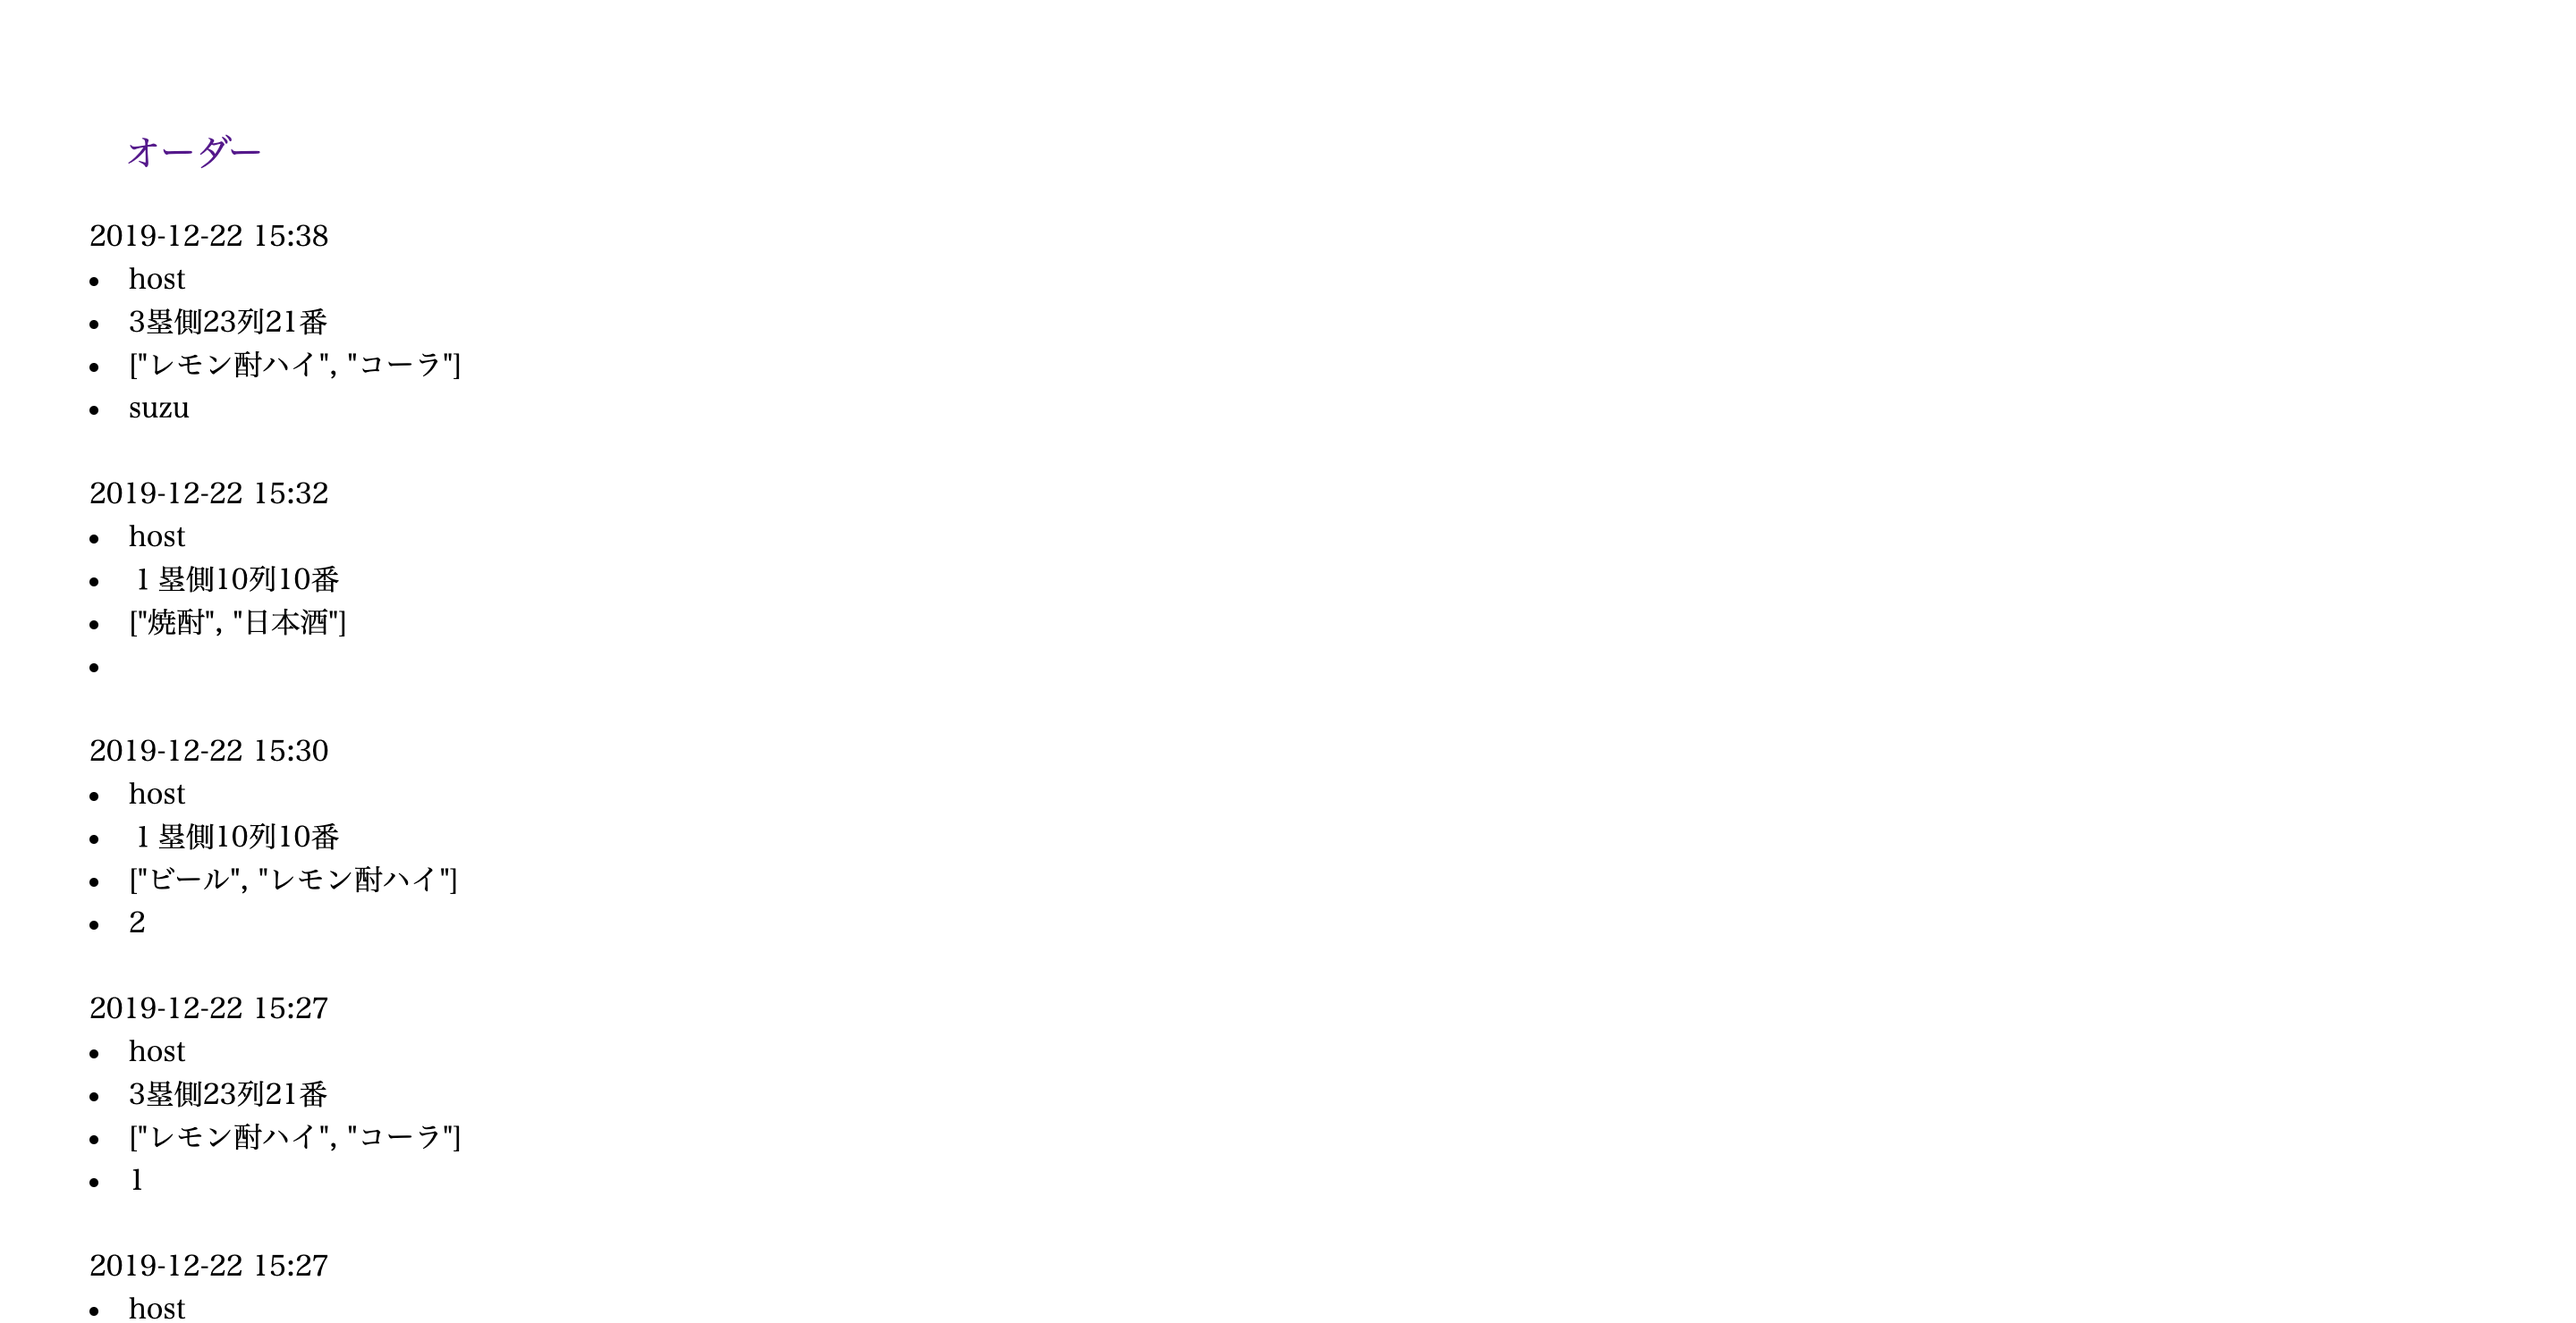
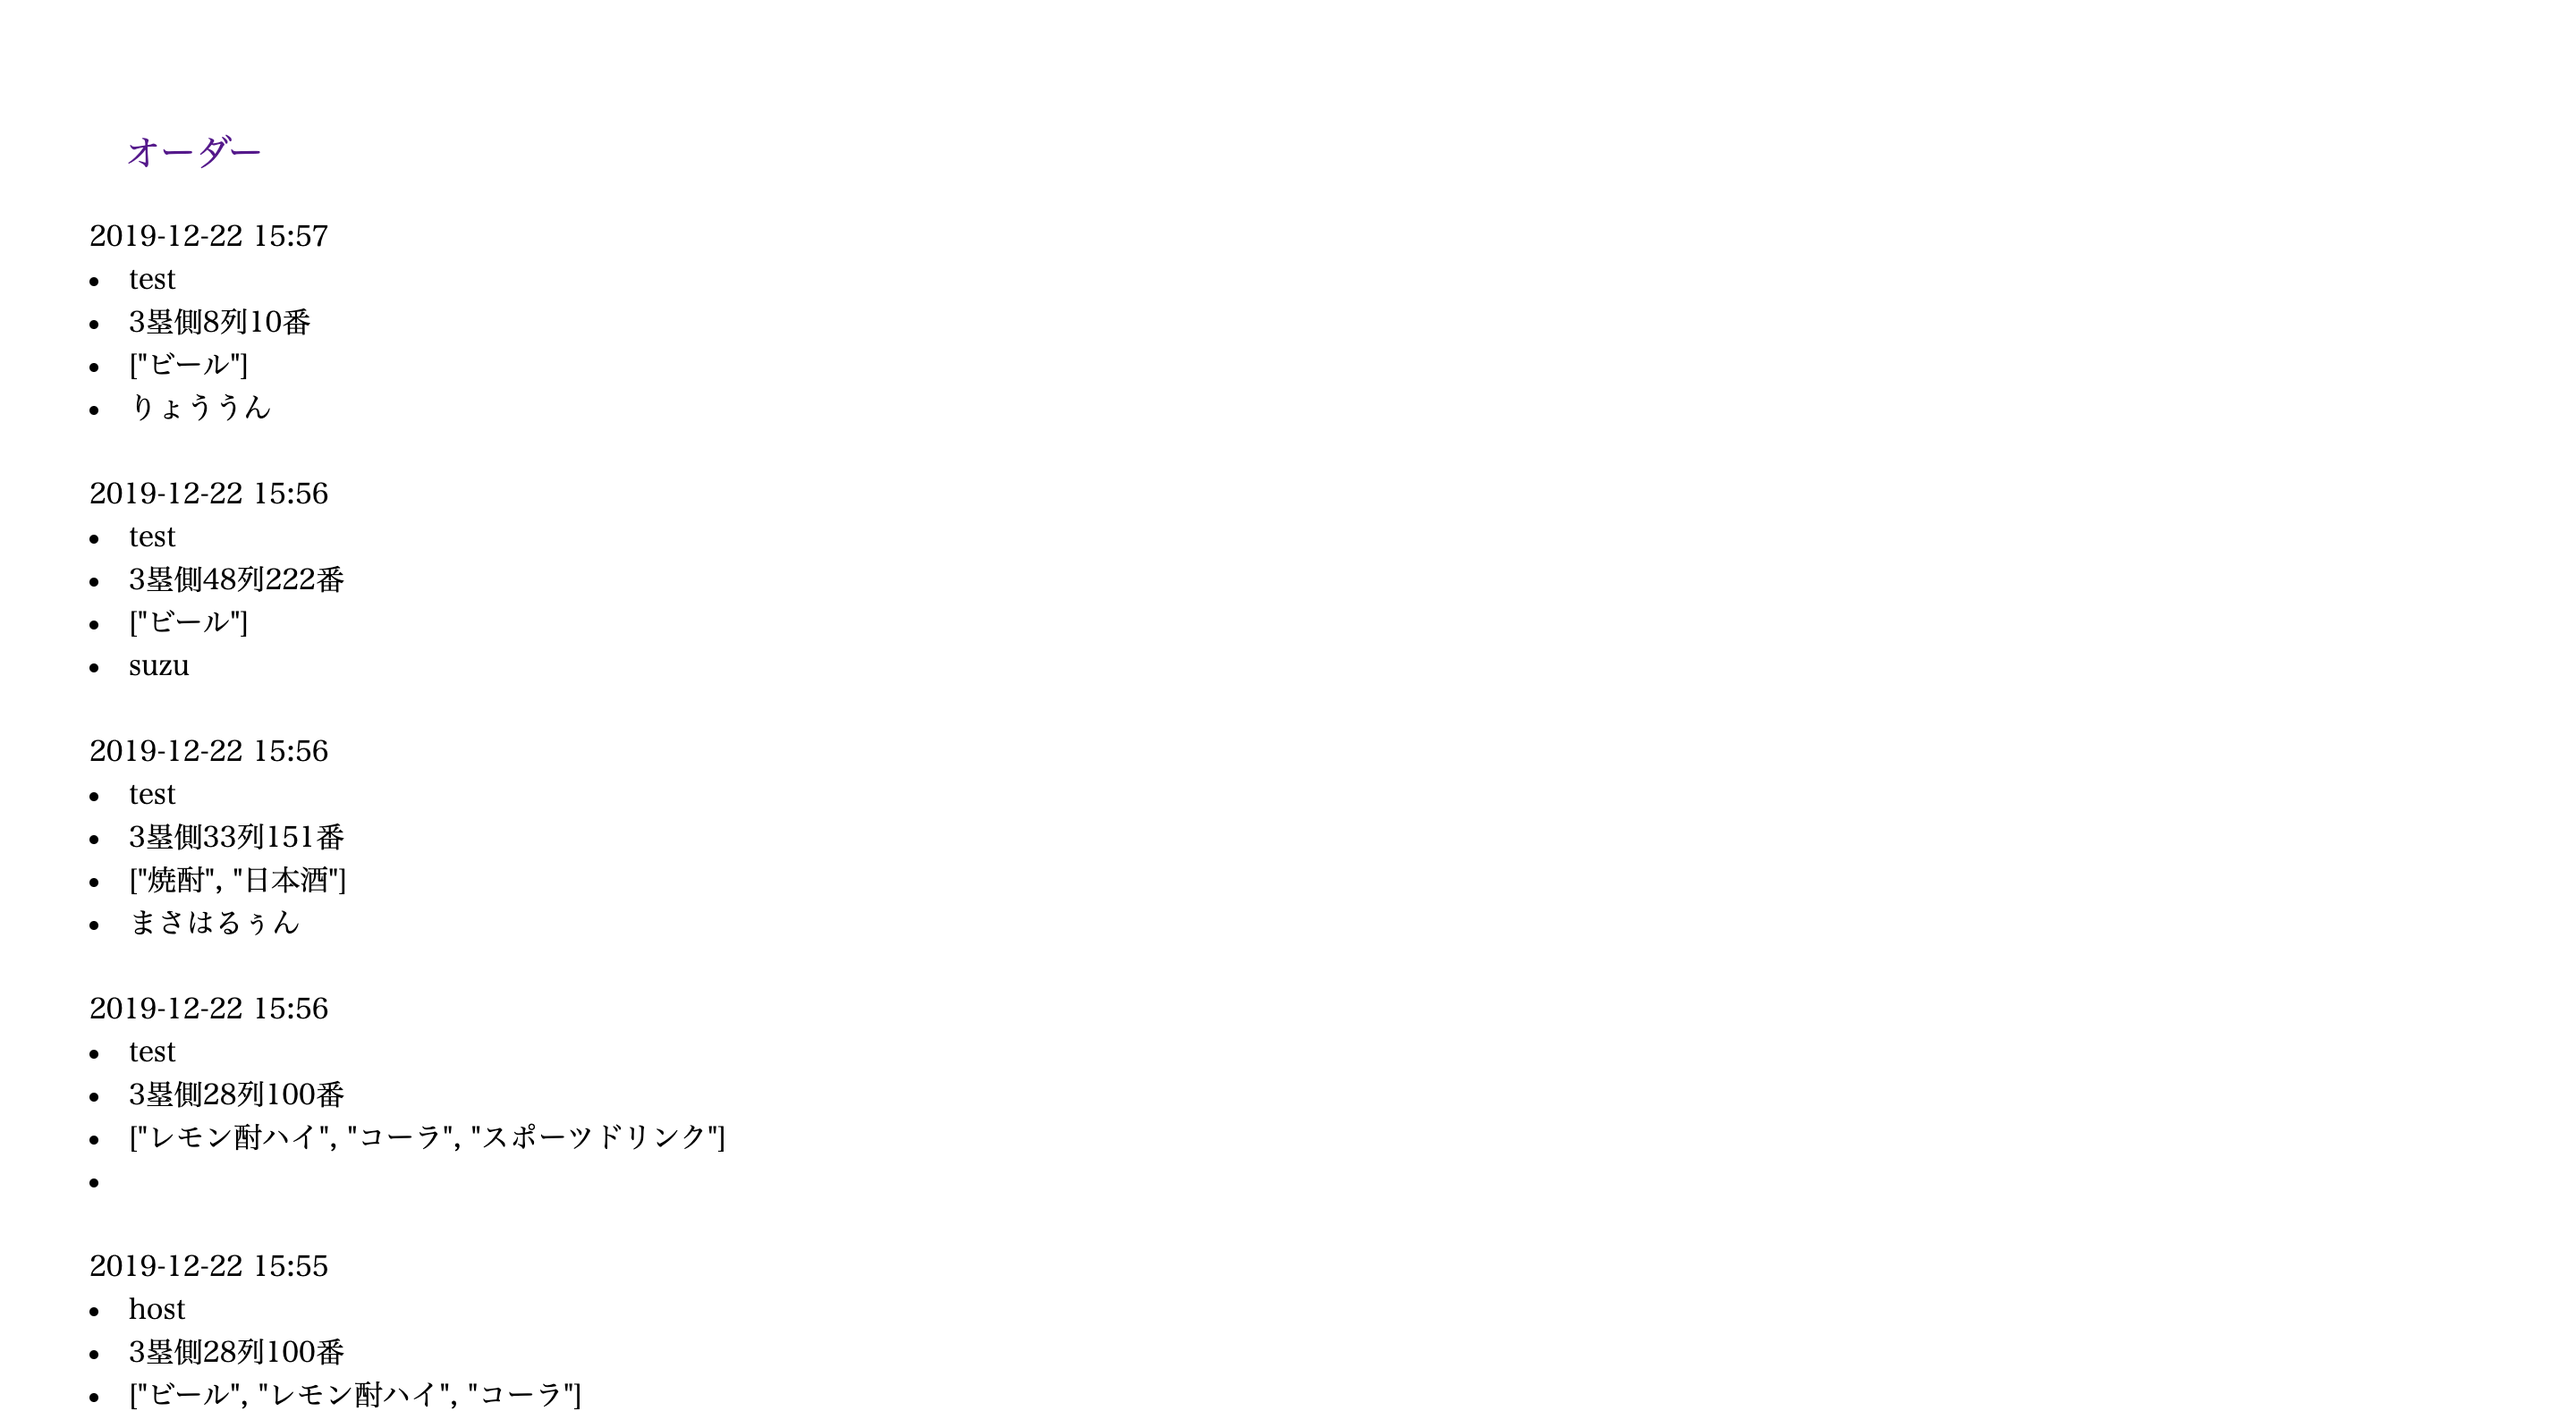
up readme

diff --git a/README.md b/README.md
@@ -8,6 +8,7 @@ HurryApp
 * ユーザーの新規会員登録、ログイン機能
 * 注文機能
 * レビュー機能
+* 管理者機能
 
 ## Demo
 * テストアカウント(1)  
@@ -47,11 +48,19 @@ host12345
 ![demo5](https://user-images.githubusercontent.com/56751063/71317880-a39a9780-24cb-11ea-9b2a-c3ab0d52d790.jpg)
 
 ヘッダーの**オーダー**から注文履歴がみれる  
-![demo6](https://user-images.githubusercontent.com/56751063/71318250-b6b06600-24d1-11ea-887c-2a7a16b8c4fd.png)
+![demo6](https://user-images.githubusercontent.com/56751063/71318419-eeb8a880-24d3-11ea-90f9-6af2d7c58ef1.png)
 
 ヘッダーの**レビュー確認**からレビュー履歴がみれる  
 ![demo7](https://user-images.githubusercontent.com/56751063/71317883-a6958800-24cb-11ea-9294-331b74fa0afc.png)
 
+
+
+## 開発予定の機能
+* 注文確認画面の実装
+* 注文、レビュー履歴の自動更新
+* 注文、レビュー履歴の並び替え機能
+* 注文、レビュー履歴のページネーション機能
+* 注文の通知機能
 
 
 
